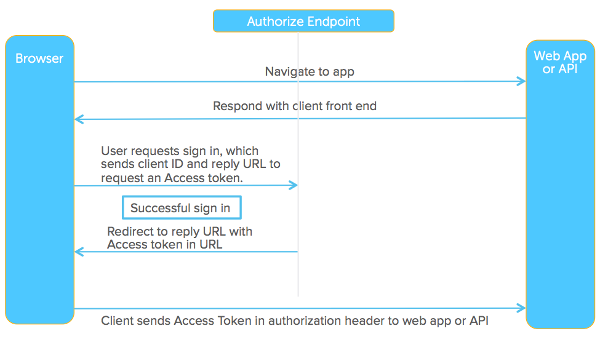
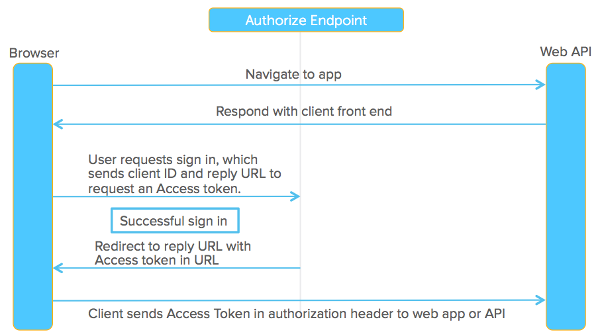
Oauth20.md final draft comments addressed.

Changed region(s): [[0.0, 0.0893, 1.0, 1.0], [0.36, 0.0, 0.69, 0.119], [0.33, 0.0298, 0.36, 0.0893]]

diff --git a/_source/docs/api/resources/oauth2.md b/_source/docs/api/resources/oauth2.md
@@ -36,7 +36,7 @@ At the very basic level, the main API endpoints are:
     
 2. Native Application
 
-    * Installed on a device or computer, such as mobile apps or on-prem agents
+    * Installed on a device or computer, such as mobile applications or installed desktop applications
     * Uses [Authorization Code Grant Flow](https://tools.ietf.org/html/rfc6749#section-4.1)
     * Can use custom redirect URIs like `myApp://oauth:2.0:native`
     
@@ -44,6 +44,7 @@ At the very basic level, the main API endpoints are:
 
     > Note: For native applications, the client_id and client_secret are embedded in the source code of the application; in this context, the client secret isn't treated as a secret. 
         Therefore native apps should make use of Proof Key for Code Exchange (PKCE) to mitigate authorization code interception.
+        For more information, see the PKCE note in [Parameter Details[(#parameter-details).
 
 3. Web Application
 
@@ -56,9 +57,9 @@ At the very basic level, the main API endpoints are:
 
 4. Service Application
 
-    * Server-side app with no end-user
+    * Server-side app with no end-user, such as an on-prem agent
     * Uses [Client Credentials Flow](https://tools.ietf.org/html/rfc6749#section-4.4)
-    * Optimized for server-only Confidential Clients acting on behalf of itself or a user
+    * Optimized for [Confidential Clients](https://tools.ietf.org/html/rfc6749#section-2.1) acting on behalf of itself or a user
     * Back-channel only flow to obtain an access token using the Client’s credentials
     
     ![Service Application Flow](/assets/img/service_app_flow.png).
@@ -70,29 +71,17 @@ At the very basic level, the main API endpoints are:
 
 ### Custom User Experience
 
-By default, the Authorization Endpoint displays the Okta login page and authenticates the user if he or she doesn't have an existing session. 
+By default, the Authorization Endpoint displays the Okta login page and authenticates users if they don't have an existing session. 
 If you prefer to use a fully customized user experience, you can instead authenticate the user via the [Authentication API](http://developer.okta.com/docs/api/resources/authn.html). 
 This authentication method produces a `sessionToken` which can be passed into the Authorize Endpoint, and the user won't see an Okta login page.
 
-> Important: Okta uses public key cryptography to sign tokens and verify that they are valid. 
-See the last section of [Access Tokens](#access-tokens) for more information on the logic your application must have to ensure it’s always updated with the latest keys.
-
-## Tokens
-{:.beta}
-> Access Tokens and Refresh Tokens for Okta resource server are not covered in this section. The format and validation method of these tokens are subject to change without prior notice.
-{:.beta}
-
-> Access Tokens and Refresh Tokens for non-Okta resource server are currently in **Beta** status.
-{:.beta}
-
-
 ### Access Token
-{:.beta}
+
 An Access Token is a [JSON web token (JWT)](https://tools.ietf.org/html/rfc7519) encoded in base64URL format that contains [a header](#header), [payload](#payload), and [signature](#signature). A resource server can authorize the client to access particular resources based on the [scopes and claims](#scopes-and-claims) in the Access Token.
-{:.beta}
+
 
 ### Header
-{:.beta}
+
 
 ~~~json
 {
@@ -100,10 +89,10 @@ An Access Token is a [JSON web token (JWT)](https://tools.ietf.org/html/rfc7519)
   "kid": "45js03w0djwedsw"
 }
 ~~~
-{:.beta}
+
 
 ### Payload
-{:.beta}
+
 
 ~~~json
 {
@@ -126,49 +115,43 @@ An Access Token is a [JSON web token (JWT)](https://tools.ietf.org/html/rfc7519)
   "custom_claim": "CustomValue"
 }
 ~~~
-{:.beta}
+
 
 ### Signature
-{:.beta}
 
 This is a digital signature Okta generates using the public key identified by the `kid` property in the header section.
-{:.beta}
 
 ### Scopes and claims
-{:.beta}
 
-Access Tokens include pre-defined scopes and claims and can optionally contain custom scopes and claims.
-{:.beta}
+Access Tokens include reserved scopes and claims.
+{% beta}Access Tokens can optionally include custom scopes and claims.{% endbeta %}
 
-#### Pre-defined scopes and claims
-{:.beta}
+#### Reserved scopes and claims
 
-##### Pre-defined scopes
-{:.beta}
-
-The Okta Authorization Server reserves a number of pre-defined (reserved) scopes which can't be overridden. Pre-defined scopes include [OIDC scopes](oidc.html#scope-dependent-claims-not-always-returned).
-
+The Okta Authorization Server defines a number of reserved scopes which can't be overridden.
 Scopes are defined in the request parameter, and claims are in the Access Token returned from the request.
-{:.beta}
 
-##### Pre-defined claims in the header section
-{:.beta}
+* [Reserved scopes](#reserved-scopes)
+* [Reserved claims in the header section](#reserved-claims-in-the-header-section)
+* [Reserved claims in the payload section](#reserved-claims-in-the-payload-section)
 
-The header only includes the following pre-defined claims:
-{:.beta}
+##### Reserved scopes
+
+Reserved scopes include [OIDC scopes](oidc.html#scope-dependent-claims-not-always-returned).
+
+##### Reserved claims in the header section
+
+The header only includes the following reserved claims:
 
 |--------------+-----------------------------------------------------------------------------------------------------+--------------|--------------------------|
 | Property     | Description                                                                      | DataType     | Example                  |
 |--------------+---------+--------------------------------------------------------------------------------------------+--------------|--------------------------|
 | alg          | Identifies the digital signature algorithm used. This is always be RS256.      | String       | "RS256"                  |
 | kid          | Identifies the `public-key` used to sign the `access_token`. The corresponding `public-key` can be found as a part of the [well-known configuration's](oidc.html#openid-connect-discovery-document) `jwks_uri` value.                                  | String       | "a5dfwef1a-0ead3f5223_w1e" |
-{:.beta}
 
-##### Pre-defined claims in the payload section
-{:.beta}
+##### Reserved claims in the payload section
 
-The payload includes the following pre-defined claims:
-{:.beta}
+The payload includes the following reserved claims:
 
 |--------------+-------------------+----------------------------------------------------------------------------------+--------------|--------------------------|
 | Property     |  Description                                                                      | DataType     | Example                  |
@@ -183,62 +166,52 @@ The payload includes the following pre-defined claims:
 | cid     | Client ID of your application that requests the Access Token.  | String    | "6joRGIzNCaJfdCPzRjlh"     |
 | uid     | A unique identifier for the user. It will not be included in the Access Token if there is no user bound to it.  | String    | 	"00uk1u7AsAk6dZL3z0g3"     |
 | scp     | Array of scopes that are granted to this Access Token.   | Array    | [ "openid", "custom" ]     |
-{:.beta}
+
+{% beta}
 
 #### Custom scopes and claims
-{:.beta}
 
 The admin can configure custom scopes and claims via the Authorization Server tab for the Application. Access Tokens are minted with all the configured custom claims and all the configured custom scopes that are included in the authorization request.
-{:.beta}
 
 ##### Custom scopes
-{:.beta}
+
 If the request that generates the access token contains any custom scopes, those scopes will be part of the *scp* claim together with the scopes provided from the [OIDC specification](http://openid.net/specs/openid-connect-core-1_0.html). The form of these custom scopes must conform to the [OAuth2 specification](https://tools.ietf.org/html/rfc6749#section-3.3).
 
 >*Note:* Scope names can contain the characters < (less than) or > (greater than), but not both characters.
-{:.beta}
 
 ##### Custom claims
-{:.beta}
+
 All configured custom claims will be included in the access token. They will be evaluated for the user if the grant type is not *client_credentials*.
-{:.beta}
+
+{% endbeta %}
 
 ### Validating Access Tokens
-{:.beta}
+
+Okta uses public key cryptography to sign tokens and verify that they are valid. 
 
 The resource server must validate the Access Token before allowing the client to access protected resources.
-{:.beta}
 
 Access Tokens are sensitive and can be misused if intercepted. Transmit them only over HTTPS and only via POST data or within request headers. If you store them on your application, you must store them securely.
-{:.beta}
 
 Access Token must be validated in the following manner:
-{:.beta}
 
 1. Verify that the `iss` (issuer) claim matches the identifier of your authorization server.
 2. Verify that the `aud` (audience) and `cid` (client id) claim are your client id.
 3. Verify the signature according to [JWS](https://tools.ietf.org/html/rfc7515) using the algorithm specified in the JWT `alg` header parameter. Use the public keys provided by Okta via the [Discovery Document](oidc.html#openid-connect-discovery-document).
 4. Verify that the expiry time (from the `exp` claim) has not already passed.
-{:.beta}
 
 Step 3 uses the same signature verification method as the [ID token](oidc.html#validating-id-tokens).
-{:.beta}
 
 The signing keys for the Access Token are rotated in the same was as the [ID token](oidc.html#validating-id-tokens).
-{:.beta}
 
 #### Alternative Validation
-{:.beta}
 
 You can use an [introspection endpoint](#introspection-request) for validation.
-{:.beta}
 
 ### Refresh Token
-{:.beta}
 
 A Refresh Token is an opaque string. It is a long-lived token that the client can use to obtain a new Access Token without re-obtaining authorization from the resource owner. The new Access Token must have the same or subset of the scopes associated with the Refresh Token.
 To get a Refresh Token, the Authentication or Token requests must contain the `offline_access` scope.
-{:.beta}
 
 ## Endpoints
 
@@ -261,7 +234,7 @@ client_id         | Obtained during either [UI client registration](../../guides
 redirect_uri      | Specifies the callback location where the authorization code should be sent and it must match what is preregistered in Okta as a part of client registration. | Query        | String   |  TRUE    | 
 display           | Specifies how to display the authentication and consent UI. Valid values: *page* or *popup*.  | Query        | String   | FALSE     |  |
 max_age           | Specifies the allowable elapsed time, in seconds, since the last time the end user was actively authenticated by Okta. | Query      | String    | FALSE    | |
-response_mode     | Specifies how the authorization response should be returned. [Valid values: *fragment*, *form_post*, *query* or *okta_post_message*](#parameter-details). If *id_token* or *token* is specified as the response type, then *query* can't be used as the response mode. Default: Defaults to *fragment* in implicit and hybrid flow. Defaults to *query* in authorization code flow and cannot be set as *okta_post_message*. | Query        | String   | FALSE      | See Description.
+response_mode     | Specifies how the authorization response should be returned. [Valid values: *fragment*, *form_post*, *query* or *okta_post_message*](#parameter-details). If *id_token* or *token* is specified as the response type, then *query* isn't allowed as a response mode. Defaults to *fragment* in implicit and hybrid flow. Defaults to *query* in authorization code flow and cannot be set as *okta_post_message*. | Query        | String   | FALSE      | See Description.
 scope          | Can be a combination of *openid*, *profile*, *email*, *address* and *phone*. The combination determines the claims that are returned in the id_token. The openid scope has to be specified to get back an id_token. | Query        | String   | TRUE     | 
 state          | A client application provided state string that might be useful to the application upon receipt of the response. It can contain alphanumeric, comma, period, underscore and hyphen characters.   | Query        | String   |  TRUE    | 
 prompt         | Can be either *none* or *login*. The value determines if Okta should not prompt for authentication (if needed), or force a prompt (even if the user had an existing session). Default: The default behavior is based on whether there's an existing Okta session. | Query        | String   | FALSE     | See Description. 
@@ -397,17 +370,17 @@ The following parameters can be posted as a part of the URL-encoded form values 
 
 Parameter          | Description                                                                                         | Type       |
 -------------------+-----------------------------------------------------------------------------------------------------+------------|
-grant_type         | Can be one of the following: *authorization_code*, *password*, or *refresh_token*<span class="beta" style="display: inline">,  or *client_credentials*</span>. Determines the mechanism Okta will use to authorize the creation of the tokens. | String |  
+grant_type         | Can be one of the following: *authorization_code*, *password*, *refresh_token*, or *client_credentials* {% api-lifecycle beta %}. Determines the mechanism Okta will use to authorize the creation of the tokens. | String |  
 code               | Expected if grant_type specified *authorization_code*. The value is what was returned from the /oauth2/v1/authorize endpoint. | String
 refresh_token      | Expected if the grant_type specified *refresh_token*. The value is what was returned from this endpoint via a previous invocation. | String |
 username           | Expected if the grant_type specified *password*. | String |
 password           | Expected if the grant_type specified *password*. | String |
-scope              | Optional if either *refresh_token*<span class="hide-beta" style="display: inline"> or *password*</span><span class="beta" style="display: inline">, *password*,  or *client_credentials*</span> is specified as the grant type. This is a list of scopes that the client wants to be included in the Access Token. For the *refresh_token* grant type, these scopes have to be subset of the scopes used to generate the Refresh Token in the first place. | String |
+scope              | Optional if *refresh_token*, or *password* is specified as the grant type. This is a list of scopes that the client wants to be included in the Access Token. For the *refresh_token* grant type, these scopes have to be subset of the scopes used to generate the Refresh Token in the first place. | String |
 redirect_uri       | Expected if grant_type is *authorization_code*. Specifies the callback location where the authorization was sent; must match what is preregistered in Okta for this client. | String |
 code_verifier      | The code verifier of [PKCE](#parameter-details). Okta uses it to recompute the code_challenge and verify if it matches the original code_challenge in the authorization request. | String |
 
-> The [Client Credentials](https://tools.ietf.org/html/rfc6749#section-4.4) flow (if `grant_types` is `client_credentials`) is currently in **Beta** status.
-{:.beta}
+> The [Client Credentials](https://tools.ietf.org/html/rfc6749#section-4.4) flow (if `grant_types` is `client_credentials`) is currently **Beta**.
+
 
 ##### Token Authentication Method
 
@@ -430,7 +403,7 @@ authorization_code | Access Token, Refresh Token, ID Token |
 refresh_token      | Access Token, Refresh Token           |
 password           | Access Token, Refresh Token           |
 client_credentials | Access Token                          |
-{:.beta}
+
 
 ##### Refresh Tokens for Web and Native Applications
 

diff --git a/_source/docs/api/resources/oidc.md b/_source/docs/api/resources/oidc.md
@@ -166,8 +166,6 @@ Claims in the payload are either base claims, independent of scope (always retur
 | address     | address    | User's preferred postal address. The value of the address member is a JSON structure containing *street_address*, *locality*, *region*, *postal_code*, and *country*.   | JSON structure    | { "street_address": "123 Hollywood Blvd.", "locality": "Los Angeles", "region": "CA", "postal_code": "90210", "country": "US" }     |
 | phone_number     |  phone   | User's preferred telephone number in E.164 format.   | String    | 	"+1 (425) 555-1212"     |
 | groups    | groups    | The groups that the user is a member of that also match the group filter of the client app. | List | ["MyGroup1", "MyGroup2", "MyGroup3"] |
-| openid    | ?????     | ????? | ???? | ???? |
-| offline_access | ?????  | ?????  | ????? | ????? |
 
 Be aware of the following before you work with scope-dependent claims:
 
